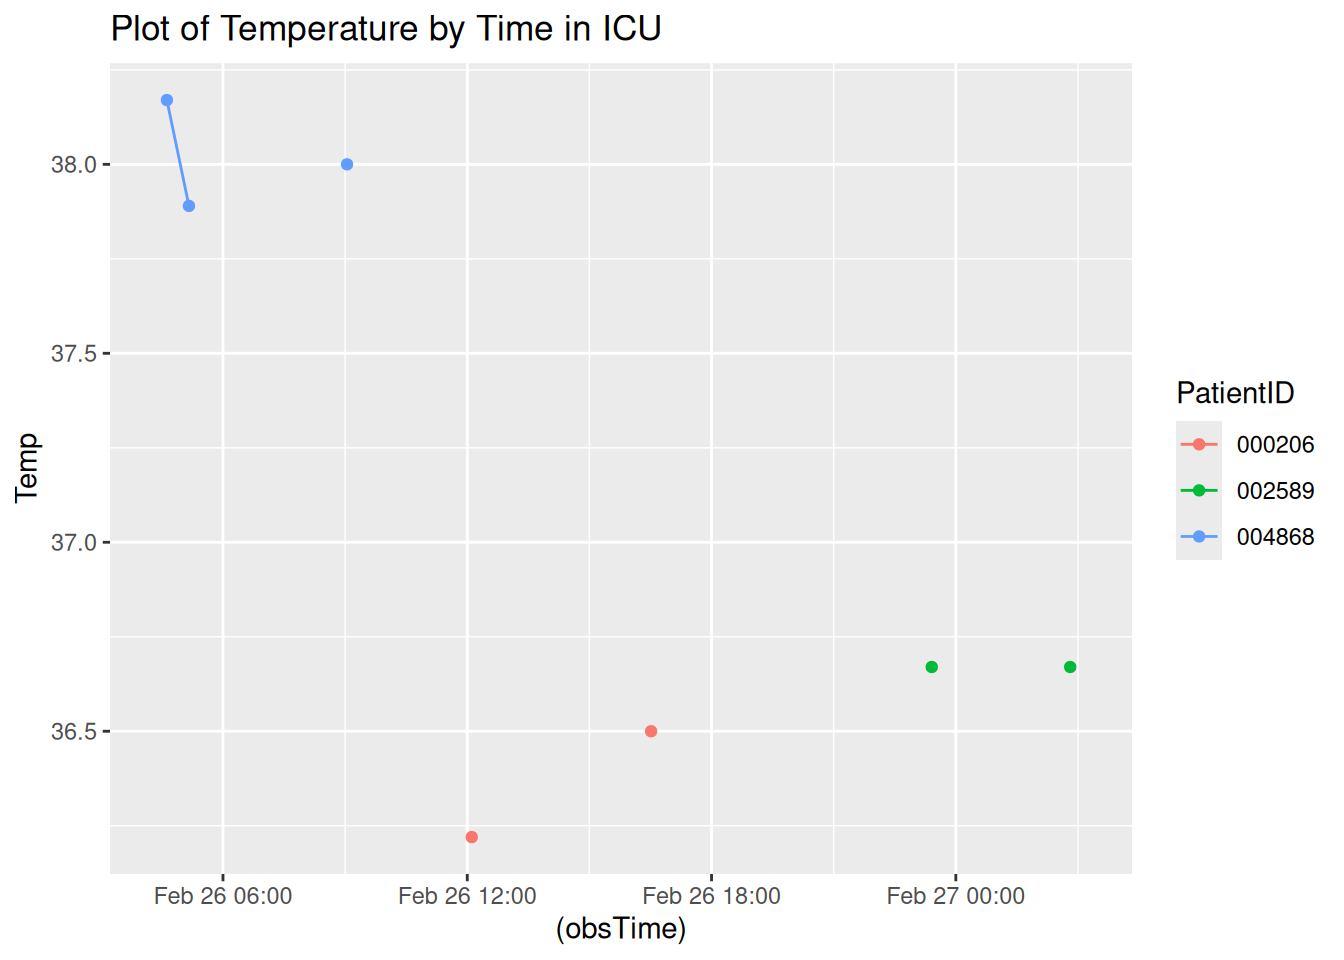
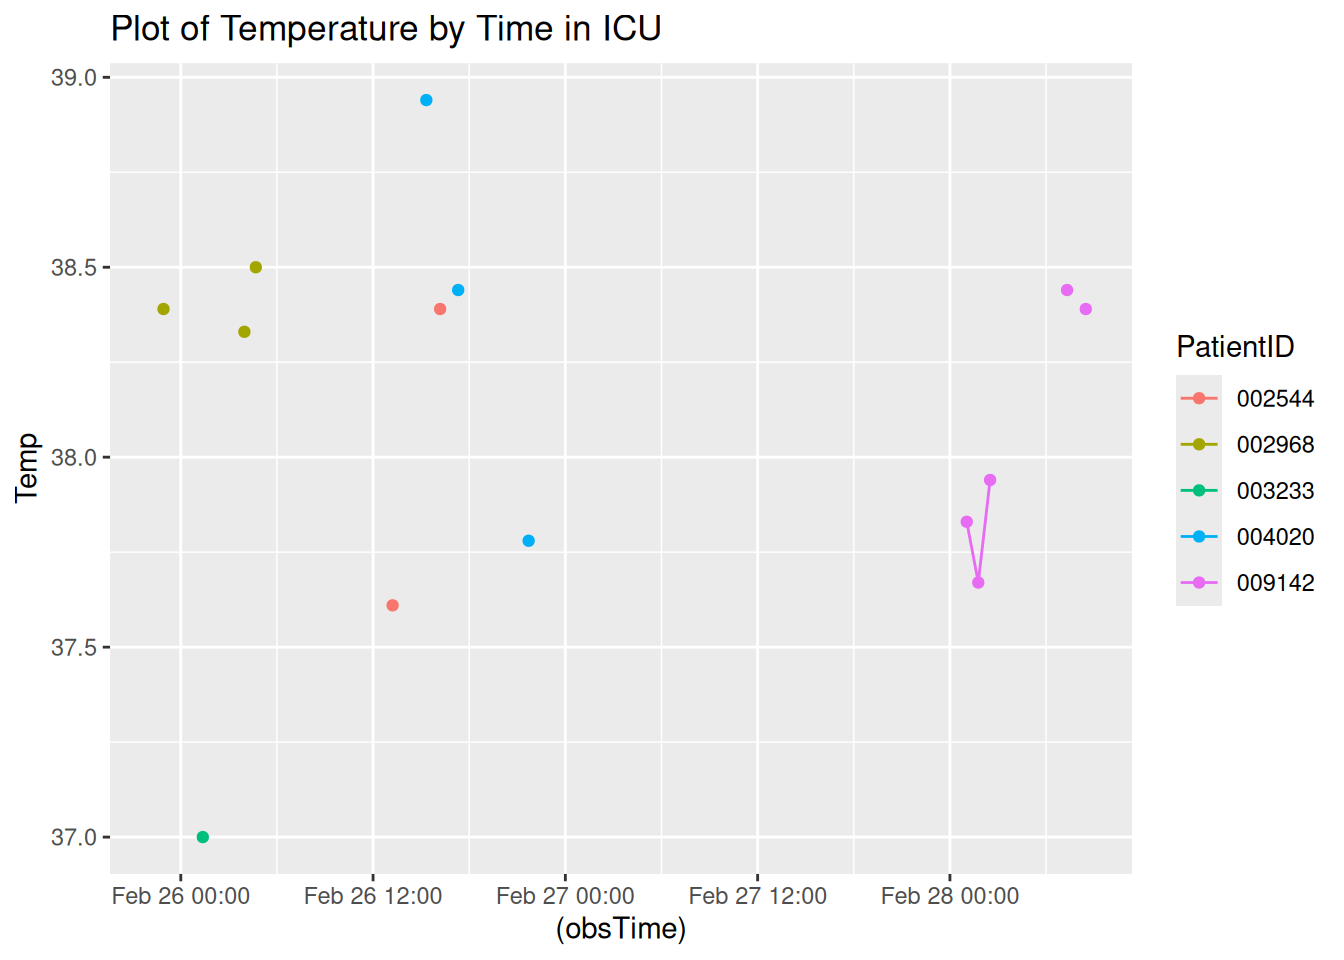
Updated report

diff --git a/A7.html b/A7.html
@@ -116,7 +116,7 @@ pre > code.sourceCode > span > a:first-child::before { text-decoration: underlin
 </div>
 <div class="sourceCode cell-code" id="cb4"><pre class="sourceCode r code-with-copy"><code class="sourceCode r"><span id="cb4-1"><a href="#cb4-1" aria-hidden="true" tabindex="-1"></a><span class="fu">toc</span>()</span></code><button title="Copy to Clipboard" class="code-copy-button"><i class="bi"></i></button></pre></div>
 <div class="cell-output cell-output-stdout">
-<pre><code>20.123 sec elapsed</code></pre>
+<pre><code>22.356 sec elapsed</code></pre>
 </div>
 <div class="sourceCode cell-code" id="cb6"><pre class="sourceCode r code-with-copy"><code class="sourceCode r"><span id="cb6-1"><a href="#cb6-1" aria-hidden="true" tabindex="-1"></a><span class="fu">tic</span>()</span>
 <span id="cb6-2"><a href="#cb6-2" aria-hidden="true" tabindex="-1"></a>test1<span class="ot">=</span><span class="fu">makeSepsisDataset</span>(<span class="at">n=</span><span class="dv">50</span>,<span class="at">read_fn =</span> <span class="st">"read_delim"</span>)</span>
@@ -126,7 +126,7 @@ pre > code.sourceCode > span > a:first-child::before { text-decoration: underlin
 </div>
 <div class="sourceCode cell-code" id="cb8"><pre class="sourceCode r code-with-copy"><code class="sourceCode r"><span id="cb8-1"><a href="#cb8-1" aria-hidden="true" tabindex="-1"></a><span class="fu">toc</span>()</span></code><button title="Copy to Clipboard" class="code-copy-button"><i class="bi"></i></button></pre></div>
 <div class="cell-output cell-output-stdout">
-<pre><code>19.367 sec elapsed</code></pre>
+<pre><code>19.784 sec elapsed</code></pre>
 </div>
 <div class="sourceCode cell-code" id="cb10"><pre class="sourceCode r code-with-copy"><code class="sourceCode r"><span id="cb10-1"><a href="#cb10-1" aria-hidden="true" tabindex="-1"></a><span class="co"># n=100</span></span>
 <span id="cb10-2"><a href="#cb10-2" aria-hidden="true" tabindex="-1"></a><span class="fu">tic</span>()</span>
@@ -137,7 +137,7 @@ pre > code.sourceCode > span > a:first-child::before { text-decoration: underlin
 </div>
 <div class="sourceCode cell-code" id="cb12"><pre class="sourceCode r code-with-copy"><code class="sourceCode r"><span id="cb12-1"><a href="#cb12-1" aria-hidden="true" tabindex="-1"></a><span class="fu">toc</span>()</span></code><button title="Copy to Clipboard" class="code-copy-button"><i class="bi"></i></button></pre></div>
 <div class="cell-output cell-output-stdout">
-<pre><code>36.079 sec elapsed</code></pre>
+<pre><code>37.04 sec elapsed</code></pre>
 </div>
 <div class="sourceCode cell-code" id="cb14"><pre class="sourceCode r code-with-copy"><code class="sourceCode r"><span id="cb14-1"><a href="#cb14-1" aria-hidden="true" tabindex="-1"></a><span class="fu">tic</span>()</span>
 <span id="cb14-2"><a href="#cb14-2" aria-hidden="true" tabindex="-1"></a>test1<span class="ot">=</span><span class="fu">makeSepsisDataset</span>(<span class="at">n=</span><span class="dv">100</span>,<span class="at">read_fn =</span> <span class="st">"read_delim"</span>)</span>
@@ -147,7 +147,7 @@ pre > code.sourceCode > span > a:first-child::before { text-decoration: underlin
 </div>
 <div class="sourceCode cell-code" id="cb16"><pre class="sourceCode r code-with-copy"><code class="sourceCode r"><span id="cb16-1"><a href="#cb16-1" aria-hidden="true" tabindex="-1"></a><span class="fu">toc</span>()</span></code><button title="Copy to Clipboard" class="code-copy-button"><i class="bi"></i></button></pre></div>
 <div class="cell-output cell-output-stdout">
-<pre><code>37.715 sec elapsed</code></pre>
+<pre><code>39.315 sec elapsed</code></pre>
 </div>
 <div class="sourceCode cell-code" id="cb18"><pre class="sourceCode r code-with-copy"><code class="sourceCode r"><span id="cb18-1"><a href="#cb18-1" aria-hidden="true" tabindex="-1"></a><span class="co"># n=500</span></span>
 <span id="cb18-2"><a href="#cb18-2" aria-hidden="true" tabindex="-1"></a><span class="fu">tic</span>()</span>
@@ -158,7 +158,7 @@ pre > code.sourceCode > span > a:first-child::before { text-decoration: underlin
 </div>
 <div class="sourceCode cell-code" id="cb20"><pre class="sourceCode r code-with-copy"><code class="sourceCode r"><span id="cb20-1"><a href="#cb20-1" aria-hidden="true" tabindex="-1"></a><span class="fu">toc</span>()</span></code><button title="Copy to Clipboard" class="code-copy-button"><i class="bi"></i></button></pre></div>
 <div class="cell-output cell-output-stdout">
-<pre><code>179.344 sec elapsed</code></pre>
+<pre><code>190.115 sec elapsed</code></pre>
 </div>
 <div class="sourceCode cell-code" id="cb22"><pre class="sourceCode r code-with-copy"><code class="sourceCode r"><span id="cb22-1"><a href="#cb22-1" aria-hidden="true" tabindex="-1"></a><span class="fu">tic</span>()</span>
 <span id="cb22-2"><a href="#cb22-2" aria-hidden="true" tabindex="-1"></a>test1<span class="ot">=</span><span class="fu">makeSepsisDataset</span>(<span class="at">n=</span><span class="dv">500</span>,<span class="at">read_fn =</span> <span class="st">"read_delim"</span>)</span>
@@ -168,7 +168,7 @@ pre > code.sourceCode > span > a:first-child::before { text-decoration: underlin
 </div>
 <div class="sourceCode cell-code" id="cb24"><pre class="sourceCode r code-with-copy"><code class="sourceCode r"><span id="cb24-1"><a href="#cb24-1" aria-hidden="true" tabindex="-1"></a><span class="fu">toc</span>()</span></code><button title="Copy to Clipboard" class="code-copy-button"><i class="bi"></i></button></pre></div>
 <div class="cell-output cell-output-stdout">
-<pre><code>188.858 sec elapsed</code></pre>
+<pre><code>197.044 sec elapsed</code></pre>
 </div>
 </div>
 <p><strong>Task 3</strong></p>
@@ -194,7 +194,7 @@ pre > code.sourceCode > span > a:first-child::before { text-decoration: underlin
 <span id="cb28-4"><a href="#cb28-4" aria-hidden="true" tabindex="-1"></a></span>
 <span id="cb28-5"><a href="#cb28-5" aria-hidden="true" tabindex="-1"></a><span class="fu">Sys.time</span>()</span></code><button title="Copy to Clipboard" class="code-copy-button"><i class="bi"></i></button></pre></div>
 <div class="cell-output cell-output-stdout">
-<pre><code>[1] "2025-02-25 21:28:30 UTC"</code></pre>
+<pre><code>[1] "2025-02-25 22:29:13 UTC"</code></pre>
 </div>
 <div class="sourceCode cell-code" id="cb30"><pre class="sourceCode r code-with-copy"><code class="sourceCode r"><span id="cb30-1"><a href="#cb30-1" aria-hidden="true" tabindex="-1"></a>dfnew <span class="ot">&lt;-</span> df <span class="sc">%&gt;%</span></span>
 <span id="cb30-2"><a href="#cb30-2" aria-hidden="true" tabindex="-1"></a>  <span class="fu">subset</span>(SepsisLabel<span class="sc">==</span><span class="dv">1</span>)</span>
@@ -223,31 +223,49 @@ pre > code.sourceCode > span > a:first-child::before { text-decoration: underlin
 </thead>
 <tbody>
 <tr class="odd">
-<td style="text-align: left;">000206</td>
-<td style="text-align: right;">22</td>
-<td style="text-align: right;">114</td>
-<td style="text-align: right;">NA</td>
-<td style="text-align: right;">25</td>
-<td style="text-align: right;">1</td>
-<td style="text-align: left;">2025-02-26 18:26:20</td>
-</tr>
-<tr class="even">
-<td style="text-align: left;">002589</td>
-<td style="text-align: right;">30</td>
-<td style="text-align: right;">75</td>
+<td style="text-align: left;">002544</td>
+<td style="text-align: right;">19</td>
+<td style="text-align: right;">74</td>
 <td style="text-align: right;">NA</td>
 <td style="text-align: right;">15</td>
 <td style="text-align: right;">1</td>
-<td style="text-align: left;">2025-02-27 03:11:31</td>
+<td style="text-align: left;">2025-02-26 17:27:54</td>
+</tr>
+<tr class="even">
+<td style="text-align: left;">002968</td>
+<td style="text-align: right;">8</td>
+<td style="text-align: right;">100</td>
+<td style="text-align: right;">NA</td>
+<td style="text-align: right;">17</td>
+<td style="text-align: right;">1</td>
+<td style="text-align: left;">2025-02-26 05:55:00</td>
 </tr>
 <tr class="odd">
-<td style="text-align: left;">004868</td>
-<td style="text-align: right;">14</td>
-<td style="text-align: right;">101</td>
+<td style="text-align: left;">003233</td>
+<td style="text-align: right;">6</td>
+<td style="text-align: right;">70</td>
 <td style="text-align: right;">NA</td>
-<td style="text-align: right;">16</td>
+<td style="text-align: right;">20</td>
 <td style="text-align: right;">1</td>
-<td style="text-align: left;">2025-02-26 09:23:42</td>
+<td style="text-align: left;">2025-02-26 04:18:49</td>
+</tr>
+<tr class="even">
+<td style="text-align: left;">004020</td>
+<td style="text-align: right;">25</td>
+<td style="text-align: right;">97</td>
+<td style="text-align: right;">NA</td>
+<td style="text-align: right;">21</td>
+<td style="text-align: right;">1</td>
+<td style="text-align: left;">2025-02-26 21:45:10</td>
+</tr>
+<tr class="odd">
+<td style="text-align: left;">009142</td>
+<td style="text-align: right;">58</td>
+<td style="text-align: right;">72</td>
+<td style="text-align: right;">38.39</td>
+<td style="text-align: right;">14</td>
+<td style="text-align: right;">1</td>
+<td style="text-align: left;">2025-02-28 08:28:42</td>
 </tr>
 </tbody>
 </table>
